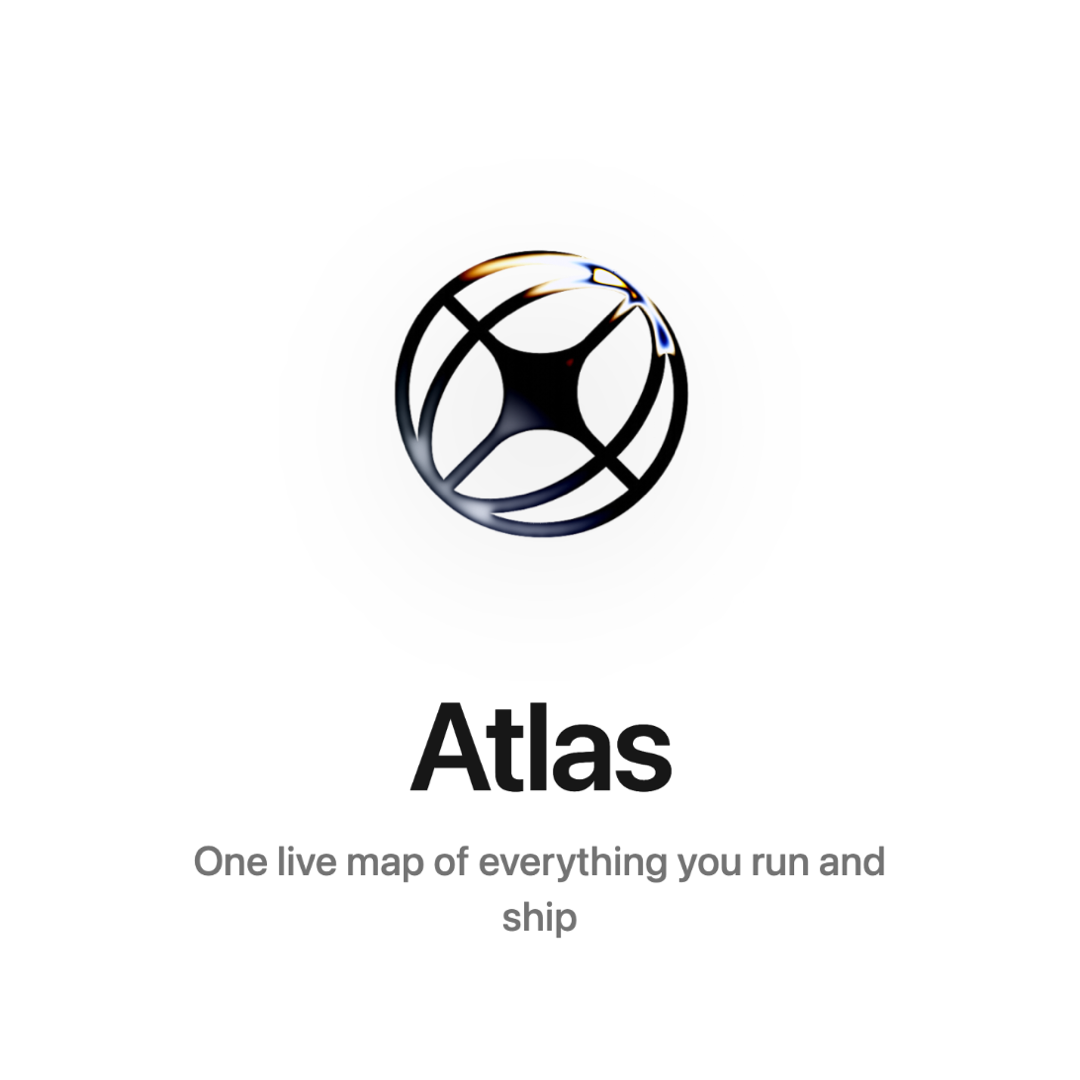
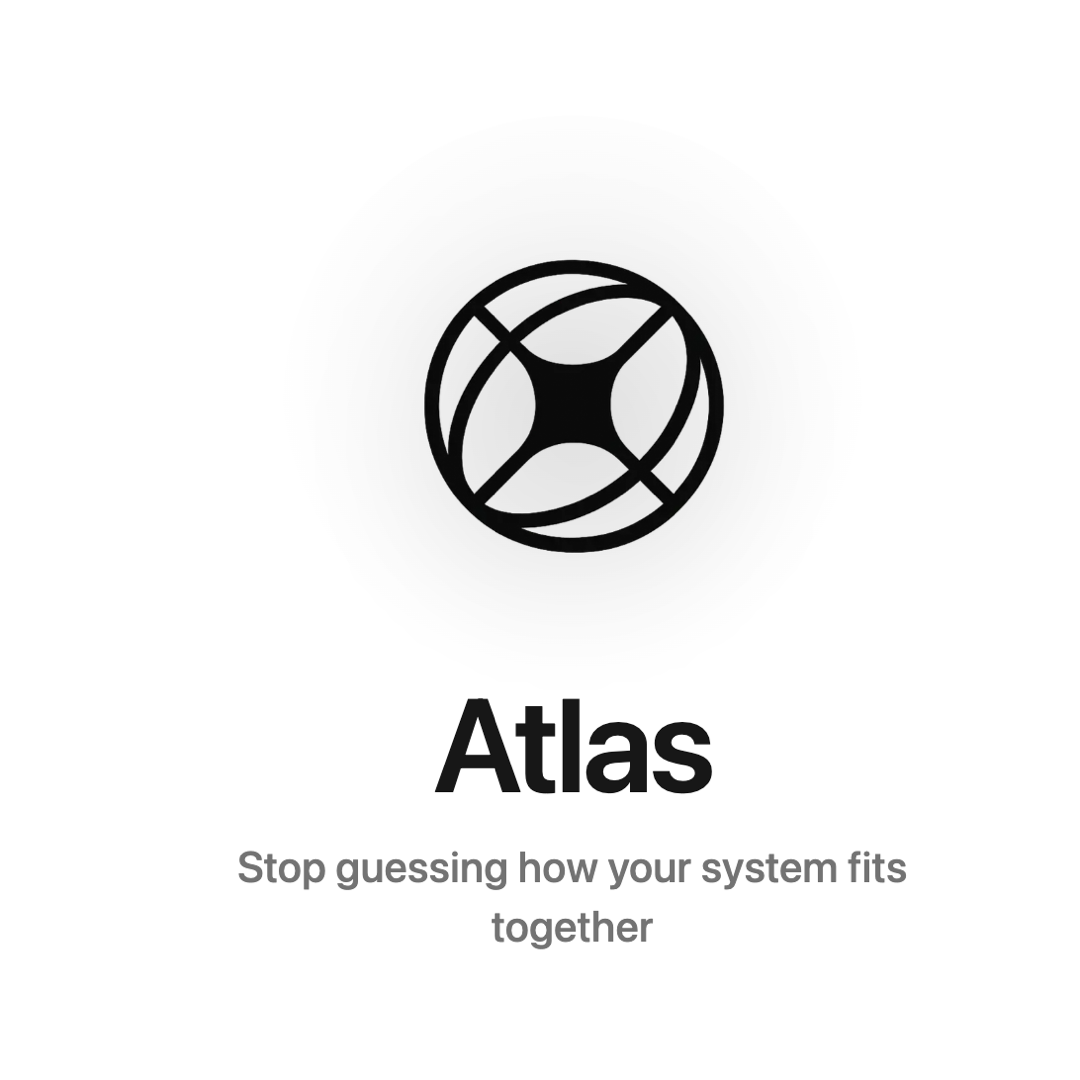
feat(web): new tagline everywhere - "Stop guessing how your system fits together"
The hero states the problem; the tagline now states that it ends. It
carries the same hook into the browser title, the share cards, the
footer, llms.txt and the structured data, so every surface says one
thing instead of three.

Share cards are regenerated with it, and switched from the liquid-metal
shader to the static mark. The shader is a WebGL animation: a still
capture lands on whichever frame the browser was on, and in a
backgrounded tab requestAnimationFrame is throttled so it freezes on
the mount frame — which is full of the chromatic smears that read as
liquid metal in motion and as artefacts once frozen. Six captures
across two settings profiles produced the same glitched frame.

A share card has to be reproducible: anyone regenerating these months
from now should get the same image, not a different roll of the dice.
The cards now use the brand mark with an explicit halo and shadow,
which is deterministic. The liquid metal stays on the sign-in screen,
in motion, where it was designed to be seen.

Changed region(s): [[0.3667, 0.2139, 0.6722, 0.5194], [0.1833, 0.7639, 0.8556, 0.8861], [0.3667, 0.6417, 0.6722, 0.7333]]

diff --git a/apps/web/src/app/page.tsx b/apps/web/src/app/page.tsx
@@ -526,8 +526,8 @@ export default async function LandingPage() {
                 <span className="text-base font-semibold tracking-tight">Atlas</span>
               </div>
               <p className="mt-3 max-w-xs text-sm leading-relaxed text-neutral-500">
-                One live map of everything you run and ship, built from read-only access to the
-                tools you already use.
+                Stop guessing how your system fits together. Built from read-only access to the
+                cloud accounts, repositories and trackers you already use.
               </p>
             </div>
 

diff --git a/apps/web/src/lib/site.ts b/apps/web/src/lib/site.ts
@@ -16,7 +16,7 @@ export const SITE_URL = (process.env.NEXT_PUBLIC_SITE_URL ?? "https://atlas-web.
 export const SITE_NAME = "Atlas";
 
 /** The one-line answer to "what is this", used as the meta description and the card subtitle. */
-export const SITE_TAGLINE = "One live map of everything you run and ship";
+export const SITE_TAGLINE = "Stop guessing how your system fits together";
 
 /**
  * Deliberately concrete rather than keyword soup. This string is what someone sees under the link
